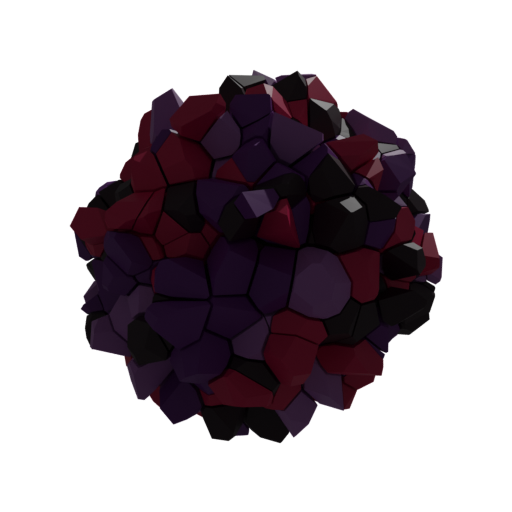
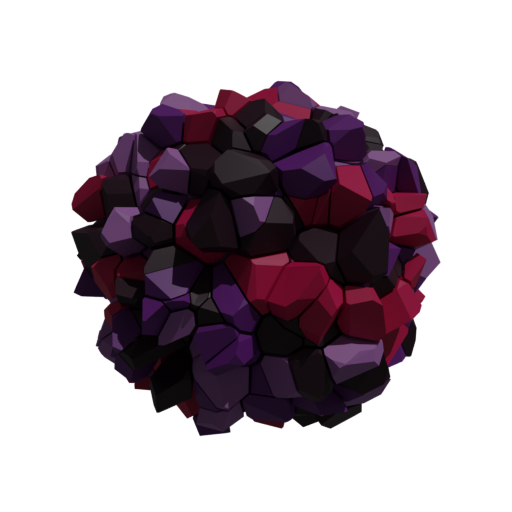
add a couple more dna

Changed region(s): [[0.125, 0.125, 0.875, 0.875]]

diff --git a/voronoi.py b/voronoi.py
@@ -86,7 +86,7 @@ def render_voronoi(dna):
     render_utils.remove_all()
 
     # Create camera and lamp
-    render_utils.simple_scene((0, 0, 0), (5.5, 0, 0), (-5, 5, 10))
+    render_utils.simple_scene((0, 0, 0), (5.5, 0, 0), (5, 5, 10))
 
     # Color palette
     # http://www.colourlovers.com/palette/1189317/Rock_Mint_Splash

diff --git a/render_rock.py b/render_rock.py
@@ -16,5 +16,5 @@ def render(dna):
 
 
 if __name__ == '__main__':
-    dna = breed_utils.load_rock(0)
+    dna = breed_utils.load_rock(1)
     render(dna)
